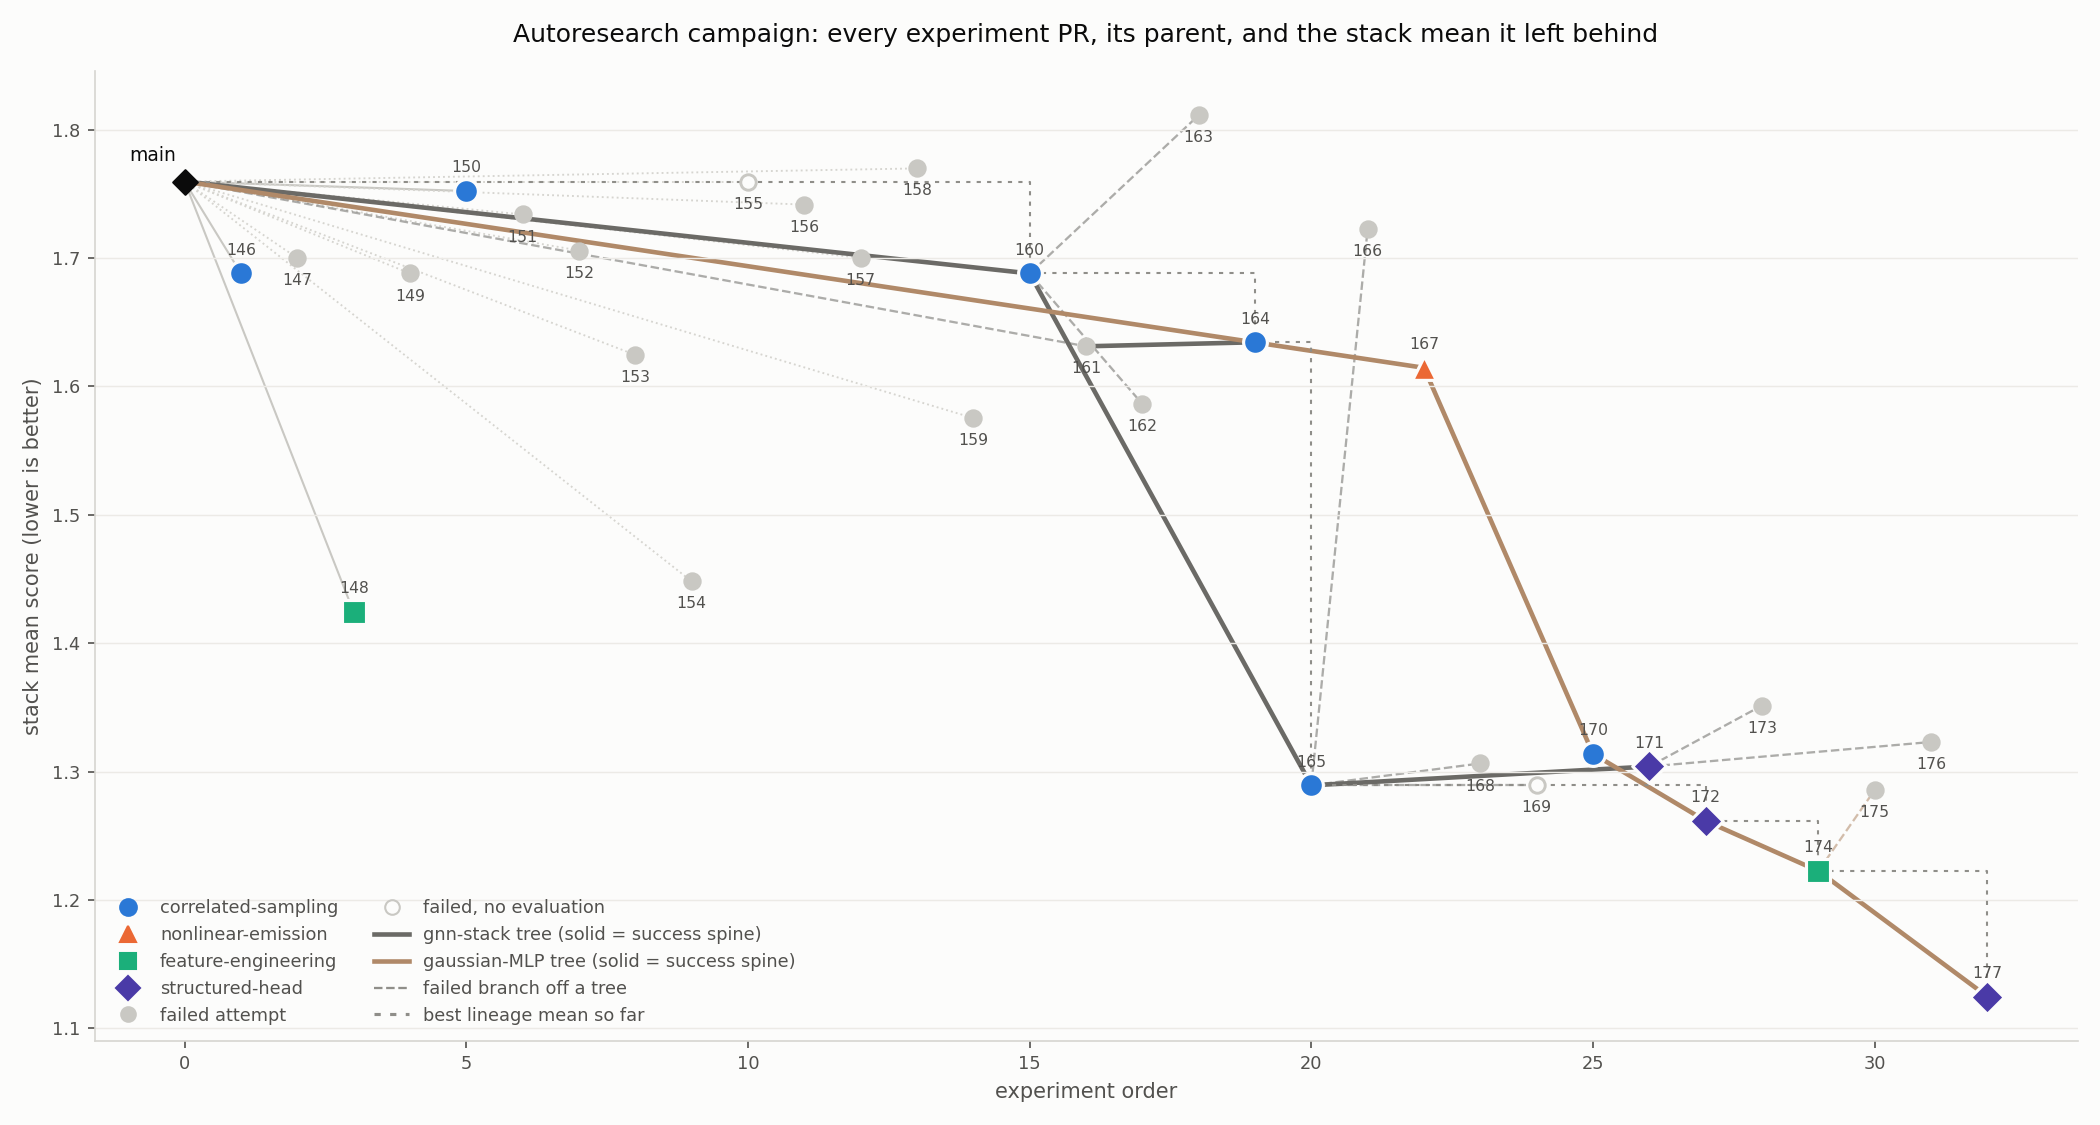
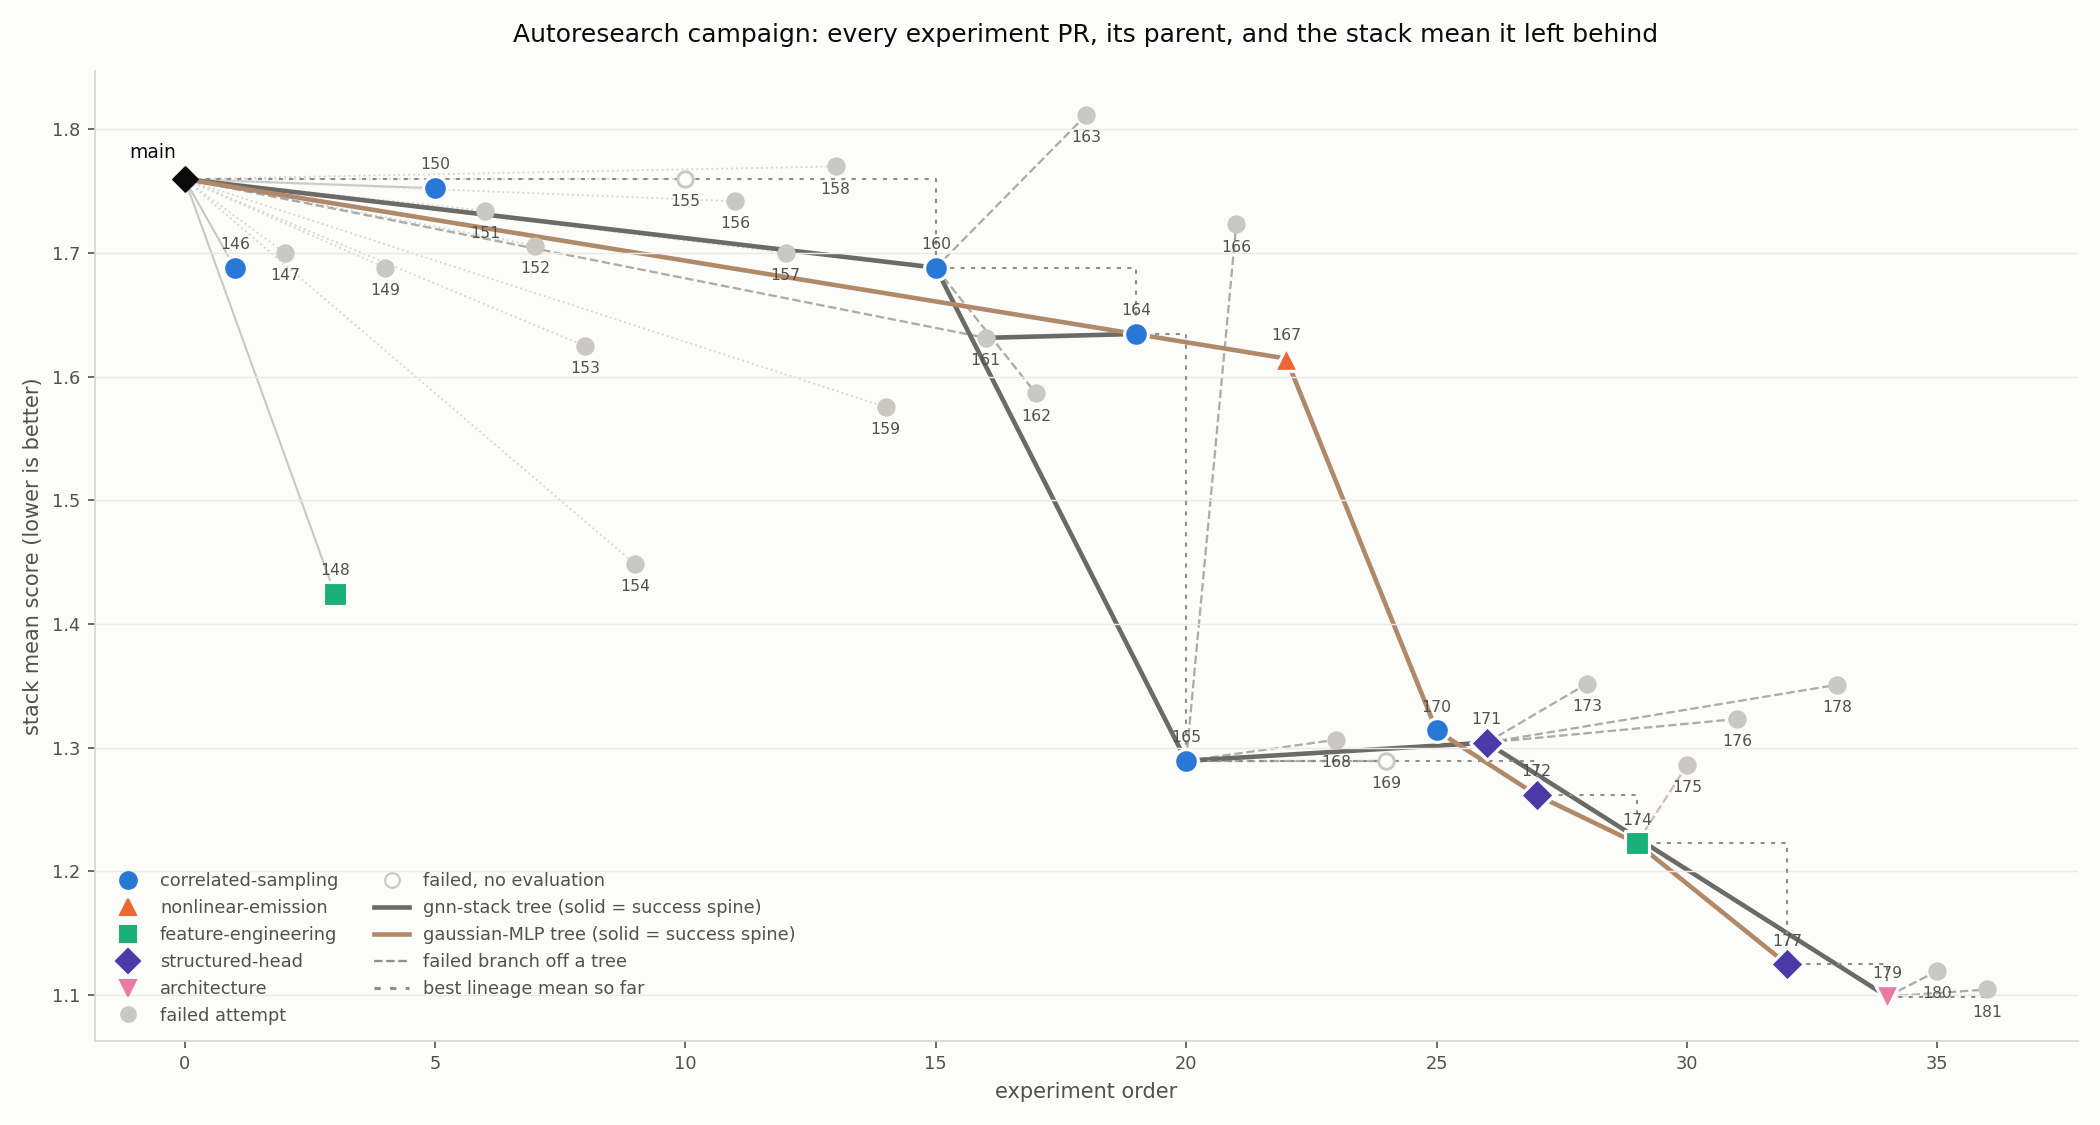
Extend the corpus to PR #181: the group-vnode breakthrough
- re-collect: 36 PRs (#146-#181), all fully parsed; four new
  classifications (178/179/181 architecture, 180 feature-engineering)
- PR #179 (per-group virtual node, seed prompt 7) is the new frontier:
  CG 4.27 -> 0.90 to the noise ceiling, mean 1.304 -> 1.099; the gnn
  spine now runs main -> 160 -> 165 -> 171 -> 179
- architecture gets a node color (magenta) now that it has a success
- fix gh --paginate parsing for PRs with more than one page of files

diff --git a/scripts/data_analysis/autoresearch_summary/score_progressions.py b/scripts/data_analysis/autoresearch_summary/score_progressions.py
@@ -91,10 +91,10 @@ def fetch_pr_scores(e):
     want = e["metrics"]["mean"]
     sh(["git", "fetch", "origin",
         f"+refs/heads/{branch}:refs/remotes/origin/{branch}"])
-    files = json.loads(sh(
+    files = sh(
         ["gh", "api", f"repos/{{owner}}/{{repo}}/pulls/{pr}/files",
-         "--paginate", "--jq", "[.[].filename]"]
-    ))
+         "--paginate", "--jq", ".[].filename"]
+    ).splitlines()
     for path in files:
         if not path.endswith("evaluation/scores.csv"):
             continue

diff --git a/scripts/data_analysis/autoresearch_summary/progress_tree.py b/scripts/data_analysis/autoresearch_summary/progress_tree.py
@@ -30,6 +30,7 @@ CATEGORY_STYLE = {
     "nonlinear-emission": ("#eb6834", "^"),
     "feature-engineering": ("#1baf7a", "s"),
     "structured-head": ("#4a3aa7", "D"),
+    "architecture": ("#e87ba4", "v"),
 }
 FALLBACK_SUCCESS = ("#52514e", "P")  # a success outside the four (none today)
 FAIL_GREY = "#c9c8c3"
